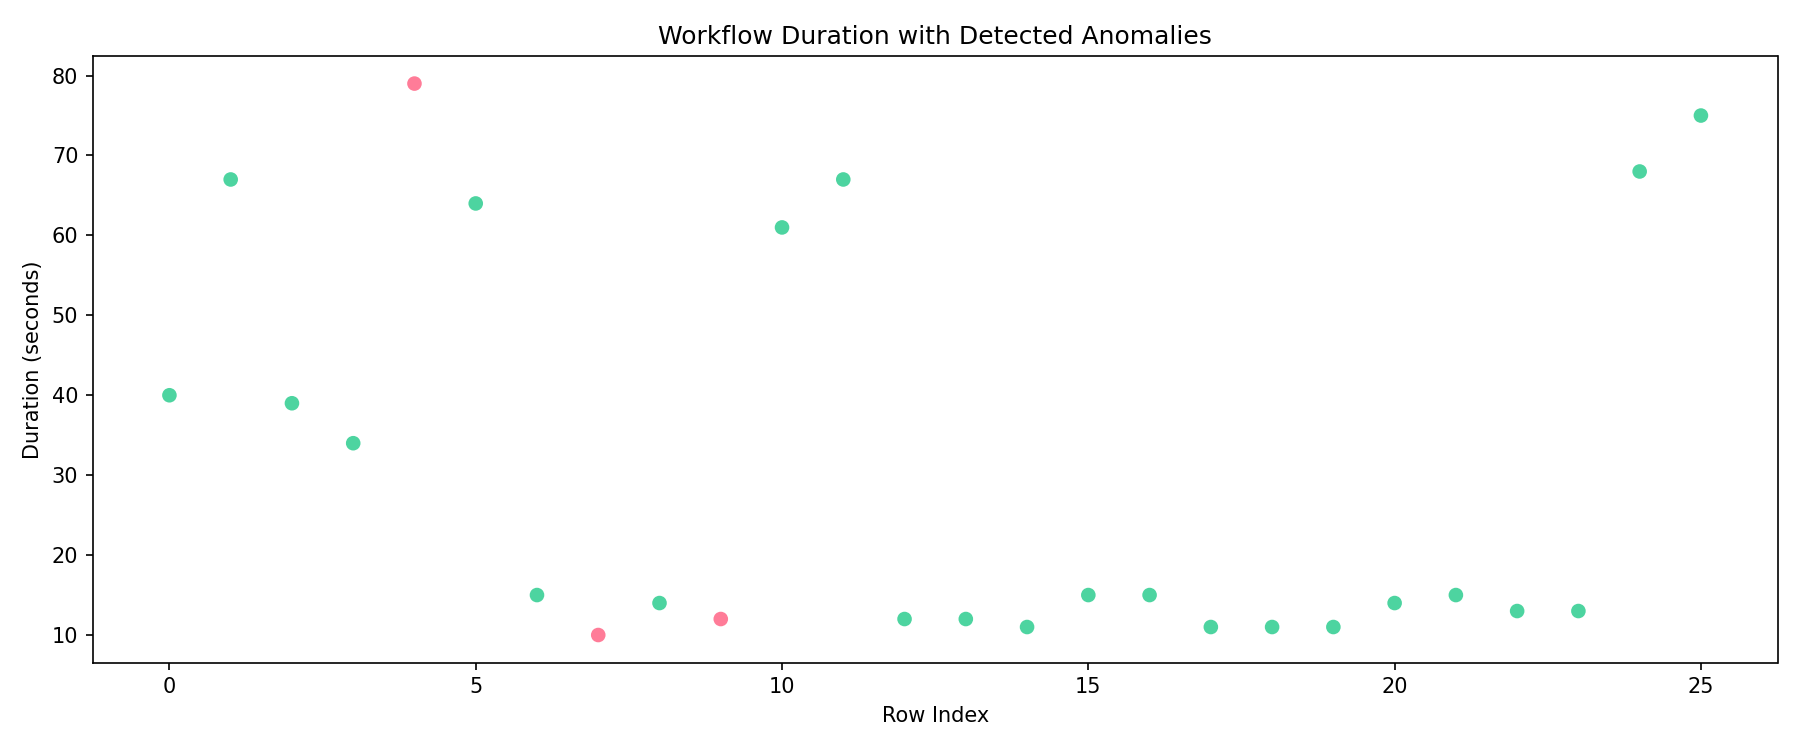
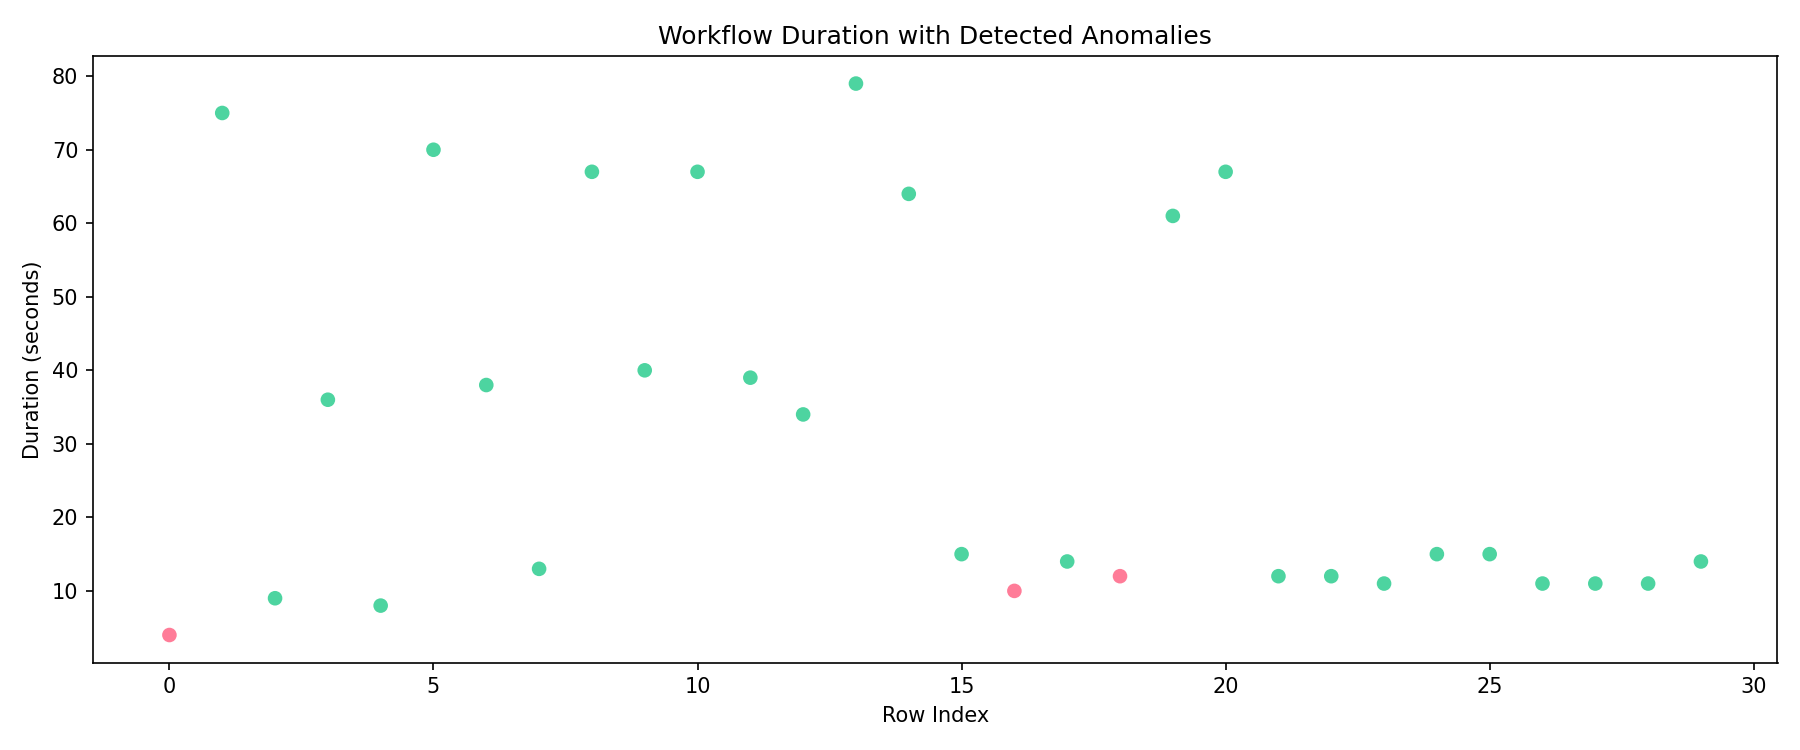
Add security scanning documentation and risk acceptance rationale

diff --git a/app/main.py b/app/main.py
@@ -6,6 +6,7 @@ import random
 from flask import render_template
 import pandas as pd
 import os
+import sys
 import subprocess
 from flask import redirect, url_for
 app = Flask(__name__)
@@ -41,7 +42,7 @@ def simulate():
 @app.get("/refresh")
 def refresh():
     try:
-        subprocess.run(["python", "scripts/fetch_metrics.py"], check=True, timeout=60)
+        subprocess.run([sys.executable, "scripts/fetch_metrics.py"], check=True, timeout=60)
         subprocess.run(["python", "scripts/train_model.py"], check=True, timeout=60)
         if os.path.exists("data/anomalies.png"):
             subprocess.run(["cp", "data/anomalies.png", "app/static/anomalies.png"], check=True)

diff --git a/README.md b/README.md
@@ -1,0 +1,34 @@
+## Security Scanning & Risk Acceptance
+
+This project integrates automated security scanning into the CI pipeline:
+- **Gitleaks** — scans full git history for leaked secrets/tokens on every push
+- **Bandit** — static analysis of Python code (13 Low, 1 Medium findings, all reviewed and accepted — see notes below)
+- **pip-audit** — dependency vulnerability scanning (0 known vulnerabilities found)
+- **Trivy** — container image vulnerability scanning
+
+### Trivy scan results & base image experiment
+Initial scan on `python:3.10-slim` (Debian 13.5/Trixie): 164 vulnerabilities
+(2 Critical, 18 High, 53 Medium, 63 Low, 28 Unknown).
+
+Tested switching to `python:3.10-slim-bookworm` (Debian 12.15) expecting an
+improvement, but this pinned an older, less-patched Debian base and
+increased the count to 189 vulnerabilities (5 Critical, 18 High, 61 Medium,
+93 Low, 12 Unknown). Reverted to `python:3.10-slim` (unpinned, tracks the
+latest stable Debian release) as the better choice.
+
+### Risk acceptance rationale
+Remaining vulnerabilities originate entirely from base OS system packages
+(apt, bash, bsdutils...), not from application code or Python dependencies
+(0 vulnerabilities found via pip-audit). Accepted as low risk because:
+- Container runs in an isolated local Vagrant VM, never exposed to internet
+- No untrusted external users have access to container or host
+- Most flagged CVEs require pre-existing local shell access to be exploitable
+- All application-level dependencies show 0 known vulnerabilities
+
+### Bandit findings rationale
+- `B311 (random)`: used only for generating synthetic simulation data, not
+  security-sensitive tokens or credentials — accepted as-is
+- `B104 (bind 0.0.0.0)`: intentional, required for access from host machine
+  to VM via private network (192.168.56.10) — accepted for this dev/lab context
+- `B603/B607 (subprocess)`: fixed by using `sys.executable` instead of
+  relying on PATH resolution, eliminating potential PATH hijacking risk